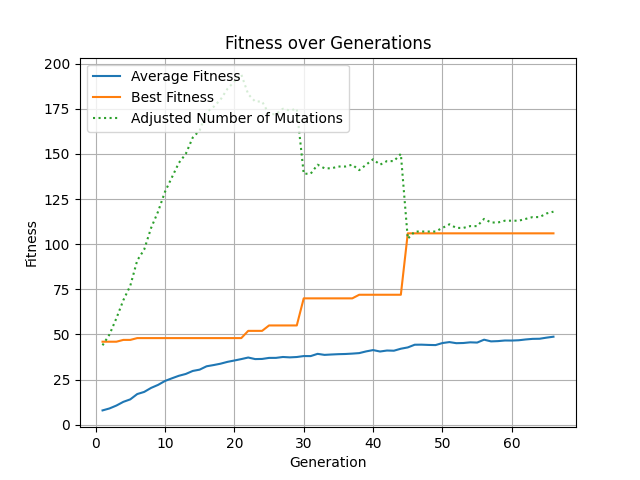
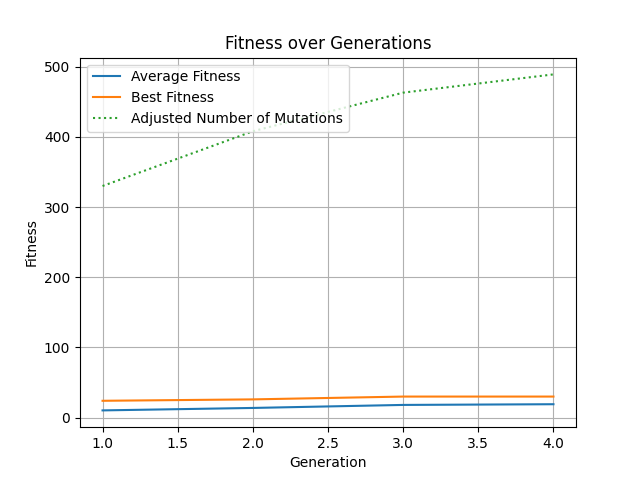
fix: update order in run()

diff --git a/animation.py b/animation.py
@@ -75,7 +75,7 @@ def draw_world(screen, world):
         draw_food(screen, food)
 
 def draw_cell(screen, cell):
-    color = (255-(255//cell.energy), 255-(255//cell.energy), 0)
+    color = (255-(180//cell.energy), 220-(180//cell.energy), 0)
     # color = (255, (255//cell.energy), 255-(255//cell.energy))
     # color = 'yellow'
     rect = pygame.Rect(cell.x*CELL_SIZE, cell.y*CELL_SIZE, CELL_SIZE, CELL_SIZE)
@@ -95,7 +95,7 @@ def draw_cell(screen, cell):
 
 def draw_food(screen, food):
         cell = pygame.Rect(food.x*CELL_SIZE, food.y*CELL_SIZE, CELL_SIZE, CELL_SIZE)
-        pygame.draw.rect(screen, 'orange', cell)
+        pygame.draw.rect(screen, 'purple', cell)
         font = pygame.font.SysFont(None, FONT_SIZE)
         text = font.render(str(food.energy), True, "black")
         screen.blit(text, (food.x * CELL_SIZE + 5, food.y * CELL_SIZE + 5))

diff --git a/gen_alg.py b/gen_alg.py
@@ -7,15 +7,15 @@ from copy import deepcopy
 from animation import animate
 
 
-NUM_GENS = 100
-NUM_INDIVIDUALS = 60
-FITTEST_RATE = 0.05
+NUM_GENS = 5
+NUM_INDIVIDUALS = 10
+FITTEST_RATE = 0.2
 NUM_FITTEST = round(NUM_INDIVIDUALS * FITTEST_RATE)
 
 MUTATED_RATE = 0.9 * FITTEST_RATE
 NUM_MUTATED = round(NUM_INDIVIDUALS * MUTATED_RATE)
 
-MUTATION_RATE = 1
+MUTATION_RATE = 3
 NUM_MUTATIONS = round(NUM_STATES * MUTATION_RATE)
 
 adjusted_number_of_mutations_history = []
@@ -41,6 +41,7 @@ def run():
 
         sorted = sort_by_fitness(worlds)
         save_rules(sorted[0].rules)
+        animate(World(deepcopy(START_CELLS), deepcopy(FOOD), sorted[0].rules, NUM_STEPS))
         if gen < NUM_GENS - 1:
             worlds = crossover(sorted)
         else:

diff --git a/physarum.py b/physarum.py
@@ -184,8 +184,8 @@ class World:
     def run(self):
         for _ in range(self.steps):
             self.update_growth()
-            self.update_food()
             self.update_energy()
+            self.update_food()
         return self
         
     def save_state(self):
